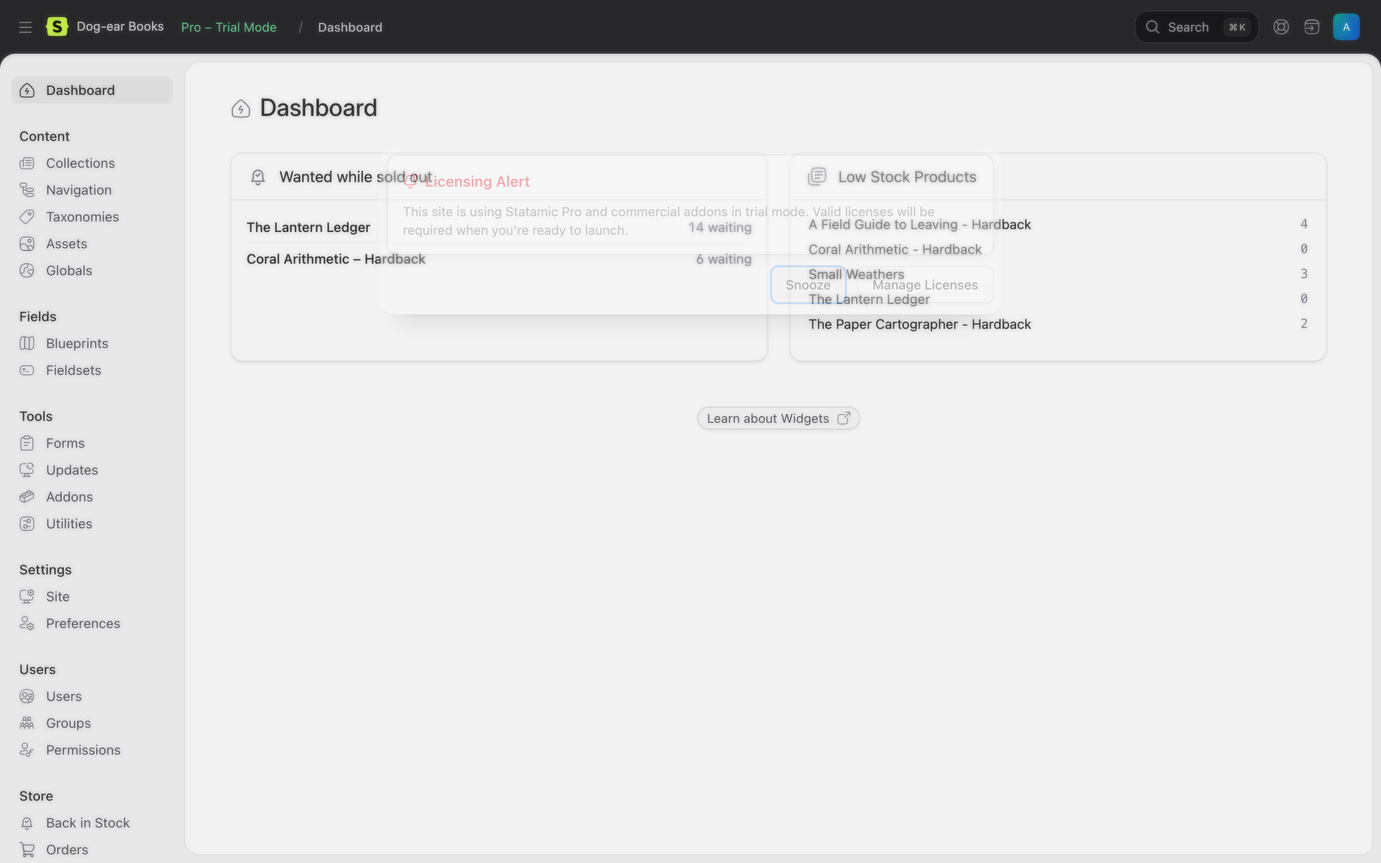
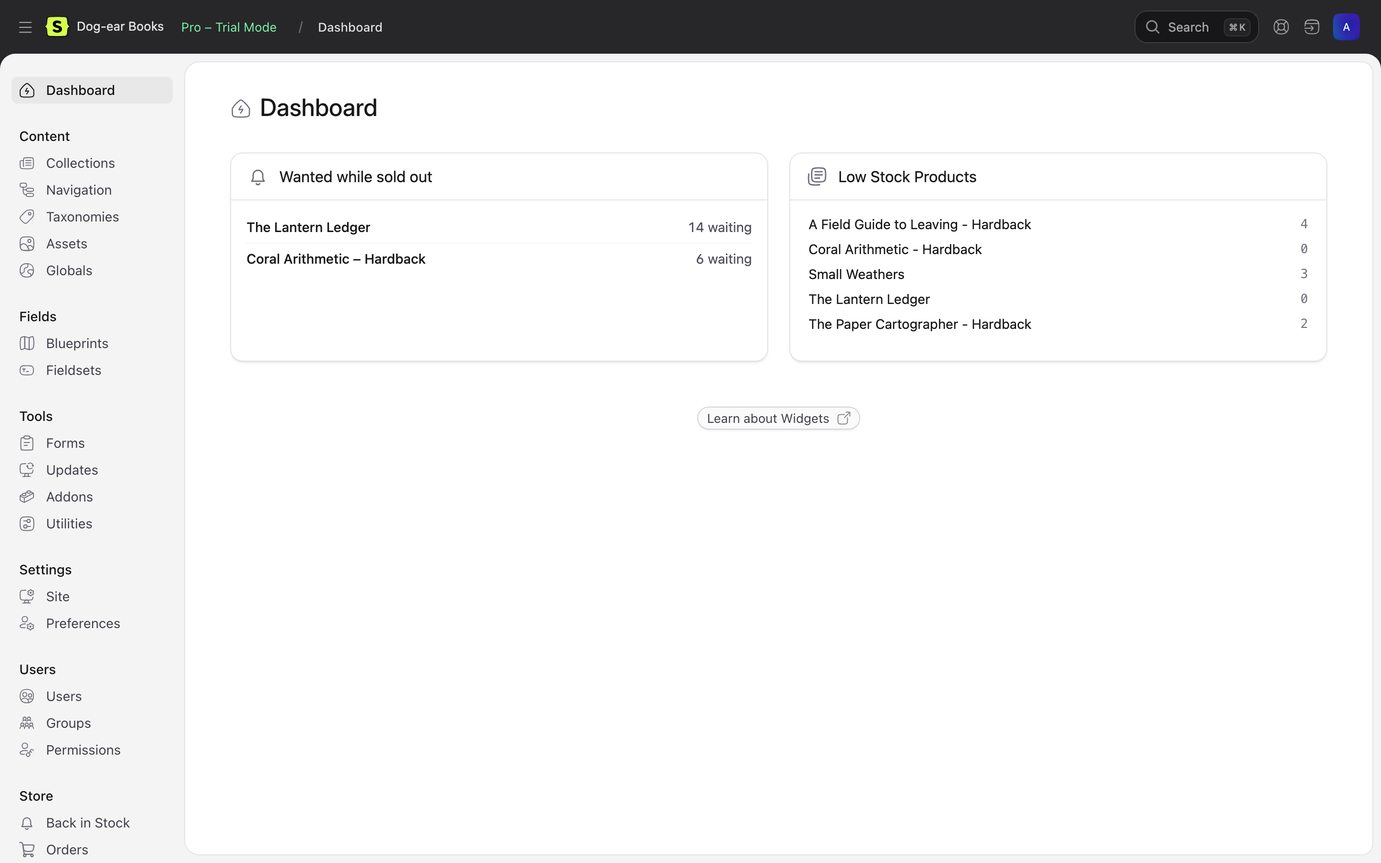
Marketplace images: cover, six screens, everything
- docs/marketplace/: cover-1600x900, 01-form, 02-confirmed, 03-one-email,
  04-demand, 05-whos-waiting, 06-everything (each with -2x), addon-icon
  (svg, png, 2x) and the new description.md
- resources/brand/: mark-colour.svg, mark-reversed.svg, nav-icon.svg (the
  bell without the tick), used for the Control Panel nav and pages
- README shows the cover; docs/marketplace is left out of Composer installs
- Docs screenshots retaken with the new icon, and the dashboard without
  Statamic's licensing alert

diff --git a/resources/dist/build/assets/cp-B0xCHKHi.js b/resources/dist/build/assets/cp-B0xCHKHi.js
@@ -1,0 +1,1 @@
+var{Form:e,Head:t,Link:n,router:r,toggleArchitecturalBackground:i,useArchitecturalBackground:a,useForm:o,usePage:s,usePoll:c}=__STATAMIC__.inertia,{Alert:l,AuthCard:u,Avatar:d,Badge:f,Button:p,ButtonGroup:m,Calendar:h,Card:g,CardList:_,CardListItem:v,CardPanel:y,CharacterCounter:b,Checkbox:ee,CheckboxGroup:te,CodeEditor:ne,Combobox:re,CommandPaletteItem:ie,ConfirmationModal:ae,ContentDirection:oe,useContentDirection:se,useUiDirection:ce,Context:le,ContextFooter:ue,ContextHeader:de,ContextItem:fe,ContextLabel:pe,ContextMenu:me,ContextSeparator:he,CreateForm:ge,DatePicker:_e,DateRangePicker:ve,Description:ye,DocsCallout:be,DragHandle:xe,Dropdown:Se,DropdownItem:Ce,DropdownLabel:we,DropdownMenu:Te,DropdownSeparator:Ee,DropdownFooter:De,DropdownHeader:Oe,Editable:ke,ErrorMessage:Ae,EmptyStateItem:je,EmptyStateMenu:Me,Field:Ne,Header:x,Heading:Pe,HoverCard:Fe,Icon:Ie,Input:S,InputGroup:Le,InputGroupAppend:Re,InputGroupPrepend:ze,Label:Be,Listing:Ve,ListingCustomizeColumns:He,ListingFilters:Ue,ListingHeaderCell:We,ListingPagination:Ge,ListingPresets:Ke,ListingPresetTrigger:qe,ListingRowActions:Je,ListingSearch:Ye,ListingTable:Xe,ListingTableBody:Ze,ListingTableHead:Qe,ListingToggleAll:$e,LivePreview:et,LivePreviewPopout:tt,MiddleEllipsis:nt,Modal:rt,ModalClose:it,ModalTitle:at,Pagination:ot,Panel:C,PanelFooter:st,PanelHeader:ct,Popover:lt,PublishComponents:ut,PublishContainer:dt,publishContextKey:ft,injectPublishContext:pt,PublishField:mt,PublishFields:ht,PublishFieldsProvider:gt,PublishForm:_t,PublishLocalizations:vt,PublishSections:yt,PublishTabs:bt,Radio:xt,RadioGroup:St,Select:w,Separator:Ct,Slider:wt,Skeleton:Tt,SplitterGroup:Et,SplitterPanel:Dt,SplitterResizeHandle:Ot,StatusIndicator:kt,Subheading:At,Switch:jt,TabContent:Mt,Stack:Nt,StackClose:Pt,StackHeader:Ft,StackFooter:It,StackContent:Lt,Table:T,TableCell:E,TableColumn:D,TableColumns:O,TableRow:k,TableRows:A,TabList:Rt,TabProvider:zt,Tabs:Bt,TabTrigger:Vt,Text:Ht,Textarea:Ut,TimePicker:Wt,TimezoneHoverCard:Gt,Timezones:Kt,ToggleGroup:qt,ToggleItem:Jt,Widget:Yt,registerIconSet:Xt,registerIconSetFromStrings:Zt}=__STATAMIC__.ui,{BaseTransition:Qt,BaseTransitionPropsValidators:$t,Comment:en,DeprecationTypes:tn,EffectScope:nn,ErrorCodes:rn,ErrorTypeStrings:an,Fragment:j,KeepAlive:on,ReactiveEffect:sn,Static:cn,Suspense:ln,Teleport:un,Text:dn,TrackOpTypes:fn,Transition:pn,TransitionGroup:mn,TriggerOpTypes:hn,VueElement:gn,__esModule:_n,assertNumber:vn,callWithAsyncErrorHandling:yn,callWithErrorHandling:bn,camelize:xn,capitalize:Sn,cloneVNode:Cn,compatUtils:wn,compile:Tn,computed:En,createApp:Dn,createBlock:M,createCommentVNode:N,createElementBlock:P,createElementVNode:F,createHydrationRenderer:On,createPropsRestProxy:kn,createRenderer:An,createSSRApp:jn,createSlots:Mn,createStaticVNode:Nn,createTextVNode:I,createVNode:L,customRef:Pn,defineAsyncComponent:Fn,defineComponent:In,defineCustomElement:Ln,defineEmits:Rn,defineExpose:zn,defineModel:Bn,defineOptions:Vn,defineProps:Hn,defineSSRCustomElement:Un,defineSlots:Wn,devtools:Gn,effect:Kn,effectScope:qn,getCurrentInstance:Jn,getCurrentScope:Yn,getCurrentWatcher:Xn,getTransitionRawChildren:Zn,guardReactiveProps:Qn,h:$n,handleError:er,hasInjectionContext:tr,hydrate:nr,hydrateOnIdle:rr,hydrateOnInteraction:ir,hydrateOnMediaQuery:ar,hydrateOnVisible:or,initCustomFormatter:sr,initDirectivesForSSR:cr,inject:lr,isMemoSame:ur,isProxy:dr,isReactive:fr,isReadonly:pr,isRef:mr,isRuntimeOnly:hr,isShallow:gr,isVNode:_r,markRaw:vr,mergeDefaults:yr,mergeModels:br,mergeProps:xr,nextTick:Sr,nodeOps:Cr,normalizeClass:wr,normalizeProps:Tr,normalizeStyle:Er,onActivated:Dr,onBeforeMount:Or,onBeforeUnmount:kr,onBeforeUpdate:Ar,onDeactivated:jr,onErrorCaptured:Mr,onMounted:Nr,onRenderTracked:Pr,onRenderTriggered:Fr,onScopeDispose:Ir,onServerPrefetch:Lr,onUnmounted:Rr,onUpdated:zr,onWatcherCleanup:Br,openBlock:R,patchProp:Vr,popScopeId:Hr,provide:Ur,proxyRefs:Wr,pushScopeId:Gr,queuePostFlushCb:Kr,reactive:qr,readonly:Jr,ref:Yr,registerRuntimeCompiler:Xr,render:Zr,renderList:z,renderSlot:Qr,resolveComponent:B,resolveDirective:$r,resolveDynamicComponent:ei,resolveFilter:ti,resolveTransitionHooks:ni,setBlockTracking:ri,setDevtoolsHook:ii,setTransitionHooks:ai,shallowReactive:oi,shallowReadonly:si,shallowRef:ci,ssrContextKey:li,ssrUtils:ui,stop:di,toDisplayString:V,toHandlerKey:fi,toHandlers:pi,toRaw:mi,toRef:hi,toRefs:gi,toValue:_i,transformVNodeArgs:vi,triggerRef:yi,unref:bi,useAttrs:xi,useCssModule:Si,useCssVars:Ci,useHost:wi,useId:Ti,useModel:Ei,useSSRContext:Di,useShadowRoot:Oi,useSlots:ki,useTemplateRef:Ai,useTransitionState:ji,vModelCheckbox:Mi,vModelDynamic:Ni,vModelRadio:Pi,vModelSelect:Fi,vModelText:Ii,vShow:Li,version:Ri,warn:zi,watch:Bi,watchEffect:Vi,watchPostEffect:Hi,watchSyncEffect:Ui,withAsyncContext:Wi,withCtx:H,withDefaults:Gi,withDirectives:Ki,withKeys:qi,withMemo:Ji,withModifiers:U,withScopeId:Yi}=window.Vue,W=(e,t)=>{let n=e.__vccOpts||e;for(let[e,r]of t)n[e]=r;return n},Xi={components:{Badge:f},props:{item:{type:Object,required:!0}}};function Zi(e,t,n,r,i,a){let o=B(`Badge`);return n.item.missing?(R(),M(o,{key:0,text:e.__(`Deleted`),color:`gray`,size:`sm`},null,8,[`text`])):n.item.published?n.item.sold_out?(R(),M(o,{key:2,text:e.__(`Sold out`),color:`red`,size:`sm`},null,8,[`text`])):n.item.tracked?(R(),M(o,{key:4,text:e.__(`:count in stock`,{count:n.item.stock}),color:`green`,size:`sm`},null,8,[`text`])):(R(),M(o,{key:3,text:e.__(`In stock`),color:`green`,size:`sm`},null,8,[`text`])):(R(),M(o,{key:1,text:e.__(`Not published`),color:`gray`,size:`sm`},null,8,[`text`]))}var G=W(Xi,[[`render`,Zi]]),K=`<svg xmlns="http://www.w3.org/2000/svg" fill="none" viewBox="0 0 14 14"><path d="M3.5 6A3.5 3.5 0 0 1 10.5 6V8.5L11.5 10.5H2.5L3.5 8.5Z" stroke="currentColor" stroke-width="1" stroke-linecap="round" stroke-linejoin="round"></path><path d="M5.75 12.25A1.4 1.4 0 0 0 8.25 12.25" stroke="currentColor" stroke-width="1" stroke-linecap="round" stroke-linejoin="round"></path></svg>`,q={components:{Button:p,Head:t,Header:x,Input:S,Link:n,Panel:C,Select:w,Stock:G,Table:T,TableCell:E,TableColumn:D,TableColumns:O,TableRow:k,TableRows:A},props:{search:{type:String,default:null},show:{type:String,default:`waiting`},items:{type:Array,required:!0},pagination:{type:Object,required:!0},stats:{type:Object,required:!0},canExport:{type:Boolean,default:!1},urls:{type:Object,required:!0}},data(){return{query:this.search??``,filter:this.show,email:``,timer:null}},computed:{icon:()=>K,showOptions(){return[{value:`waiting`,label:__(`People waiting`)},{value:`all`,label:__(`Everything asked about`)}]},filtered(){return!!this.search||this.show===`all`}},watch:{query(){clearTimeout(this.timer),this.timer=setTimeout(()=>this.reload(),300)},filter(){this.reload()}},methods:{params(e=1){let t={};return this.query&&(t.search=this.query),this.filter===`all`&&(t.show=`all`),e>1&&(t.page=e),t},reload(){r.get(this.urls.index,this.params(),{preserveState:!0,replace:!0})},pageUrl(e){let t=new URLSearchParams(this.params(e)).toString();return this.urls.index+(t?`?${t}`:``)},findPerson(){this.email&&r.get(this.urls.person,{email:this.email})}}},J={class:`mx-auto max-w-6xl`},Y={class:`mb-6 grid gap-4 sm:grid-cols-3`},X={class:`px-4 py-3`},Z={class:`text-sm text-gray-600 dark:text-gray-400!`},Qi={class:`mt-1 text-2xl font-semibold tabular-nums`},$i={class:`text-sm text-gray-600 dark:text-gray-400!`},ea={class:`px-4 py-3`},ta={class:`text-sm text-gray-600 dark:text-gray-400!`},na={class:`mt-1 text-2xl font-semibold tabular-nums`},ra={class:`text-sm text-gray-600 dark:text-gray-400!`},ia={class:`px-4 py-3`},aa={class:`text-sm text-gray-600 dark:text-gray-400!`},oa={class:`mt-1 text-2xl font-semibold tabular-nums`},sa={key:0,class:`ml-2 text-base font-normal text-gray-600 dark:text-gray-400!`},ca={class:`text-sm text-gray-600 dark:text-gray-400!`},la={class:`mb-3 flex flex-col gap-3 sm:flex-row`},ua={class:`grow`},da={class:`sm:w-60`},fa={key:0,class:`overflow-x-auto`},pa={key:0,class:`text-sm text-gray-600 dark:text-gray-400!`},ma={key:0,class:`mt-1 text-xs text-gray-600 dark:text-gray-400!`},ha={key:1,class:`px-6 py-10 text-center`},ga={key:0,class:`text-gray-600 dark:text-gray-400!`},_a={class:`font-medium`},va={class:`mt-1 text-sm text-gray-600 dark:text-gray-400!`},ya=[`aria-label`],ba={key:1},xa={class:`text-gray-600 dark:text-gray-400!`},Sa={key:3},Ca={for:`bis-person`,class:`text-sm text-gray-600 dark:text-gray-400!`},wa={class:`sm:w-72`};function Ta(e,t,n,r,i,a){let o=B(`Head`),s=B(`Button`),c=B(`Header`),l=B(`Panel`),u=B(`Input`),d=B(`Select`),f=B(`TableColumn`),p=B(`TableColumns`),m=B(`Link`),h=B(`TableCell`),g=B(`Stock`),_=B(`TableRow`),v=B(`TableRows`),y=B(`Table`);return R(),P(j,null,[L(o,{title:e.__(`Back in Stock`)},null,8,[`title`]),F(`div`,J,[L(c,{title:e.__(`Back in Stock`),icon:a.icon},{default:H(()=>[n.urls.settings?(R(),M(s,{key:0,href:n.urls.settings,text:e.__(`Settings`),icon:`cog`},null,8,[`href`,`text`])):N(``,!0),n.canExport?(R(),M(s,{key:1,href:n.urls.export,text:e.__(`Download CSV`),icon:`download`},null,8,[`href`,`text`])):N(``,!0)]),_:1},8,[`title`,`icon`]),F(`div`,Y,[L(l,{class:`mb-0!`},{default:H(()=>[F(`div`,X,[F(`div`,Z,V(e.__(`Waiting`)),1),F(`div`,Qi,V(n.stats.waiting),1),F(`div`,$i,V(e.__(n.stats.products===1?`for 1 product`:`for :count products`,{count:n.stats.products})),1)])]),_:1}),L(l,{class:`mb-0!`},{default:H(()=>[F(`div`,ea,[F(`div`,ta,V(e.__(`Emailed`)),1),F(`div`,na,V(n.stats.notified),1),F(`div`,ra,V(e.__(`in the last 30 days`)),1)])]),_:1}),L(l,{class:`mb-0!`},{default:H(()=>[F(`div`,ia,[F(`div`,aa,V(e.__(`Bought after the email`)),1),F(`div`,oa,[I(V(n.stats.converted),1),n.stats.rate?(R(),P(`span`,sa,V(n.stats.rate),1)):N(``,!0)]),F(`div`,ca,V(e.__(`in the last 30 days`)),1)])]),_:1})]),F(`div`,la,[F(`div`,ua,[L(u,{modelValue:i.query,"onUpdate:modelValue":t[0]||=e=>i.query=e,icon:`magnifying-glass`,placeholder:e.__(`Search by product`),clearable:``,"aria-label":e.__(`Search`)},null,8,[`modelValue`,`placeholder`,`aria-label`])]),F(`div`,da,[L(d,{modelValue:i.filter,"onUpdate:modelValue":t[1]||=e=>i.filter=e,options:a.showOptions,"option-label":`label`,"option-value":`value`,"aria-label":e.__(`Show`)},null,8,[`modelValue`,`options`,`aria-label`])])]),L(l,null,{default:H(()=>[n.items.length?(R(),P(`div`,fa,[L(y,null,{default:H(()=>[L(p,null,{default:H(()=>[L(f,null,{default:H(()=>[I(V(e.__(`Product`)),1)]),_:1}),L(f,null,{default:H(()=>[I(V(e.__(`Stock`)),1)]),_:1}),L(f,{class:`text-right`},{default:H(()=>[I(V(e.__(`Waiting`)),1)]),_:1}),L(f,{class:`text-right`},{default:H(()=>[I(V(e.__(`Unconfirmed`)),1)]),_:1}),L(f,{class:`text-right`},{default:H(()=>[I(V(e.__(`Emailed`)),1)]),_:1}),L(f,{class:`text-right`},{default:H(()=>[I(V(e.__(`Bought`)),1)]),_:1})]),_:1}),L(v,null,{default:H(()=>[(R(!0),P(j,null,z(n.items,t=>(R(),M(_,{key:t.id},{default:H(()=>[L(h,null,{default:H(()=>[L(m,{href:t.url,class:`font-medium hover:underline!`},{default:H(()=>[I(V(t.title),1)]),_:2},1032,[`href`]),t.variant?(R(),P(`div`,pa,V(t.variant),1)):N(``,!0)]),_:2},1024),L(h,null,{default:H(()=>[L(g,{item:t},null,8,[`item`]),t.pending?(R(),P(`div`,ma,V(e.__(`Emails going out`)),1)):N(``,!0)]),_:2},1024),L(h,{class:`text-right text-lg font-semibold tabular-nums`},{default:H(()=>[I(V(t.waiting),1)]),_:2},1024),L(h,{class:`text-right tabular-nums text-gray-600 dark:text-gray-400!`},{default:H(()=>[I(V(t.unconfirmed),1)]),_:2},1024),L(h,{class:`text-right tabular-nums`},{default:H(()=>[I(V(t.notified),1)]),_:2},1024),L(h,{class:`text-right tabular-nums`},{default:H(()=>[I(V(t.converted),1)]),_:2},1024)]),_:2},1024))),128))]),_:1})]),_:1})])):(R(),P(`div`,ha,[a.filtered?(R(),P(`p`,ga,V(e.__(`Nothing matches.`)),1)):(R(),P(j,{key:1},[F(`p`,_a,V(e.__(`Nobody’s waiting for anything`)),1),F(`p`,va,V(e.__(`When shoppers ask to hear about a sold-out product, it shows here with how many are waiting.`)),1)],64))]))]),_:1}),n.pagination.last_page>1?(R(),P(`nav`,{key:0,class:`mt-4 flex items-center justify-between text-sm`,"aria-label":e.__(`Pages`)},[n.pagination.page>1?(R(),M(m,{key:0,href:a.pageUrl(n.pagination.page-1),class:`hover:underline!`},{default:H(()=>[I(`← `+V(e.__(`Previous`)),1)]),_:1},8,[`href`])):(R(),P(`span`,ba)),F(`span`,xa,V(e.__(`:page of :last`,{page:n.pagination.page,last:n.pagination.last_page})),1),n.pagination.page<n.pagination.last_page?(R(),M(m,{key:2,href:a.pageUrl(n.pagination.page+1),class:`hover:underline!`},{default:H(()=>[I(V(e.__(`Next`))+` →`,1)]),_:1},8,[`href`])):(R(),P(`span`,Sa))],8,ya)):N(``,!0),F(`form`,{class:`mt-8 flex flex-col gap-2 sm:flex-row sm:items-center`,onSubmit:t[3]||=U((...e)=>a.findPerson&&a.findPerson(...e),[`prevent`])},[F(`label`,Ca,V(e.__(`Someone asking what you keep about them?`)),1),F(`div`,wa,[L(u,{id:`bis-person`,modelValue:i.email,"onUpdate:modelValue":t[2]||=e=>i.email=e,type:`email`,placeholder:e.__(`Their email address`)},null,8,[`modelValue`,`placeholder`])]),L(s,{type:`submit`,text:e.__(`Find`),size:`sm`},null,8,[`text`])],32)])],64)}var Ea=W(q,[[`render`,Ta]]),Da={unconfirmed:`amber`,waiting:`blue`,sending:`blue`,notified:`green`,converted:`emerald`,cancelled:`gray`},Oa={components:{Badge:f},props:{status:{type:String,required:!0},label:{type:String,required:!0}},computed:{colour(){return Da[this.status]??`default`}}};function ka(e,t,n,r,i,a){let o=B(`Badge`);return R(),M(o,{text:n.label,color:a.colour,size:`sm`},null,8,[`text`,`color`])}var Q=W(Oa,[[`render`,ka]]),Aa={components:{Button:p,Head:t,Header:x,Input:S,Link:n,Panel:C,Select:w,StatusBadge:Q,Stock:G,Table:T,TableCell:E,TableColumn:D,TableColumns:O,TableRow:k,TableRows:A},props:{item:{type:Object,required:!0},inStock:{type:Boolean,default:!1},search:{type:String,default:null},status:{type:String,default:null},statuses:{type:Array,required:!0},alerts:{type:Array,required:!0},pagination:{type:Object,required:!0},restocks:{type:Array,required:!0},limit:{type:String,default:`all`},canManage:{type:Boolean,default:!1},canExport:{type:Boolean,default:!1},urls:{type:Object,required:!0}},data(){return{query:this.search??``,filter:this.status??`all`,timer:null}},computed:{icon:()=>K,title(){return this.item.variant?`${this.item.title} – ${this.item.variant}`:this.item.title},statusOptions(){return[{value:`all`,label:__(`All statuses`)},...this.statuses]}},watch:{query(){clearTimeout(this.timer),this.timer=setTimeout(()=>this.reload(),300)},filter(){this.reload()}},methods:{params(e=1){let t={};return this.query&&(t.search=this.query),this.filter&&this.filter!==`all`&&(t.status=this.filter),e>1&&(t.page=e),t},reload(){r.get(this.urls.self,this.params(),{preserveState:!0,replace:!0})},pageUrl(e){let t=new URLSearchParams(this.params(e)).toString();return this.urls.self+(t?`?${t}`:``)},sendNow(){confirm(__(`Email all :count people waiting now?`,{count:this.item.waiting}))&&r.post(this.urls.send,{},{preserveScroll:!0})},cancel(e){confirm(__(`Cancel :email’s request? They won’t be emailed.`,{email:e.email}))&&r.post(e.cancel_url,{},{preserveScroll:!0})},remove(e){confirm(__(`Delete :email’s request? This can’t be undone.`,{email:e.email}))&&r.delete(e.delete_url,{preserveScroll:!0})},personUrl(e){return`${this.urls.person}?email=${encodeURIComponent(e.email)}`}}},ja={class:`mx-auto max-w-6xl`},Ma={class:`mb-2 text-sm`},Na={class:`mb-6 grid gap-4 sm:grid-cols-4`},Pa={class:`px-4 py-3`},Fa={class:`text-sm text-gray-600 dark:text-gray-400!`},Ia={class:`mt-2`},La={key:0,class:`mt-1 text-xs text-gray-600 dark:text-gray-400!`},Ra={class:`px-4 py-3`},za={class:`text-sm text-gray-600 dark:text-gray-400!`},Ba={class:`mt-1 text-2xl font-semibold tabular-nums`},Va={class:`text-sm text-gray-600 dark:text-gray-400!`},Ha={class:`px-4 py-3`},Ua={class:`text-sm text-gray-600 dark:text-gray-400!`},Wa={class:`mt-1 text-2xl font-semibold tabular-nums`},Ga={class:`px-4 py-3`},Ka={class:`text-sm text-gray-600 dark:text-gray-400!`},qa={class:`mt-1 text-2xl font-semibold tabular-nums`},Ja={key:0,class:`mb-4 text-sm text-gray-600 dark:text-gray-400!`},Ya={class:`mb-3 flex flex-col gap-3 sm:flex-row`},Xa={class:`grow`},Za={class:`sm:w-56`},Qa={key:0,class:`overflow-x-auto`},$a={class:`sr-only`},eo={key:0,class:`text-xs text-gray-600 dark:text-gray-400!`},to={key:1,class:`px-6 py-10 text-center text-gray-600 dark:text-gray-400!`},no=[`aria-label`],ro={key:1},io={class:`text-gray-600 dark:text-gray-400!`},ao={key:3},oo={key:0,class:`overflow-x-auto`},so={key:1,class:`px-6 py-6 text-sm text-gray-600 dark:text-gray-400!`};function co(e,t,n,r,i,a){let o=B(`Head`),s=B(`Link`),c=B(`Button`),l=B(`Header`),u=B(`Stock`),d=B(`Panel`),f=B(`Input`),p=B(`Select`),m=B(`TableColumn`),h=B(`TableColumns`),g=B(`TableCell`),_=B(`StatusBadge`),v=B(`TableRow`),y=B(`TableRows`),b=B(`Table`);return R(),P(j,null,[L(o,{title:a.title},null,8,[`title`]),F(`div`,ja,[F(`div`,Ma,[L(s,{href:n.urls.index,class:`text-gray-600 hover:underline! dark:text-gray-400!`},{default:H(()=>[I(`← `+V(e.__(`Back in Stock`)),1)]),_:1},8,[`href`])]),L(l,{title:a.title,icon:a.icon},{default:H(()=>[n.item.live_url?(R(),M(c,{key:0,href:n.item.live_url,target:`_blank`,text:e.__(`View`),icon:`external-link`},null,8,[`href`,`text`])):N(``,!0),n.item.edit_url?(R(),M(c,{key:1,href:n.item.edit_url,text:e.__(`Edit product`),icon:`pencil`},null,8,[`href`,`text`])):N(``,!0),n.canExport?(R(),M(c,{key:2,href:n.urls.export,text:e.__(`Download CSV`),icon:`download`},null,8,[`href`,`text`])):N(``,!0),n.canManage&&n.inStock&&n.item.waiting?(R(),M(c,{key:3,variant:`primary`,text:e.__(`Email them now`),icon:`mail`,onClick:a.sendNow},null,8,[`text`,`onClick`])):N(``,!0)]),_:1},8,[`title`,`icon`]),F(`div`,Na,[L(d,{class:`mb-0!`},{default:H(()=>[F(`div`,Pa,[F(`div`,Fa,V(e.__(`Stock`)),1),F(`div`,Ia,[L(u,{item:n.item},null,8,[`item`])]),n.item.pending?(R(),P(`div`,La,V(e.__(`Emails going out`)),1)):N(``,!0)])]),_:1}),L(d,{class:`mb-0!`},{default:H(()=>[F(`div`,Ra,[F(`div`,za,V(e.__(`Waiting`)),1),F(`div`,Ba,V(n.item.waiting),1),F(`div`,Va,V(e.__(`:count unconfirmed`,{count:n.item.unconfirmed})),1)])]),_:1}),L(d,{class:`mb-0!`},{default:H(()=>[F(`div`,Ha,[F(`div`,Ua,V(e.__(`Emailed`)),1),F(`div`,Wa,V(n.item.notified),1)])]),_:1}),L(d,{class:`mb-0!`},{default:H(()=>[F(`div`,Ga,[F(`div`,Ka,V(e.__(`Bought after the email`)),1),F(`div`,qa,V(n.item.converted),1)])]),_:1})]),n.limit===`stock`?(R(),P(`p`,Ja,V(e.__(`When stock comes back, as many people are emailed as units came back, oldest request first. “Email them now” emails everyone waiting.`)),1)):N(``,!0),F(`div`,Ya,[F(`div`,Xa,[L(f,{modelValue:i.query,"onUpdate:modelValue":t[0]||=e=>i.query=e,icon:`magnifying-glass`,placeholder:e.__(`Search by email`),clearable:``,"aria-label":e.__(`Search`)},null,8,[`modelValue`,`placeholder`,`aria-label`])]),F(`div`,Za,[L(p,{modelValue:i.filter,"onUpdate:modelValue":t[1]||=e=>i.filter=e,options:a.statusOptions,"option-label":`label`,"option-value":`value`,"aria-label":e.__(`Status`)},null,8,[`modelValue`,`options`,`aria-label`])])]),L(d,{class:`mb-6`},{default:H(()=>[n.alerts.length?(R(),P(`div`,Qa,[L(b,null,{default:H(()=>[L(h,null,{default:H(()=>[L(m,null,{default:H(()=>[I(V(e.__(`Email`)),1)]),_:1}),L(m,null,{default:H(()=>[I(V(e.__(`Status`)),1)]),_:1}),L(m,null,{default:H(()=>[I(V(e.__(`Asked`)),1)]),_:1}),L(m,null,{default:H(()=>[I(V(e.__(`Emailed`)),1)]),_:1}),n.canManage?(R(),M(m,{key:0,class:`text-right`},{default:H(()=>[F(`span`,$a,V(e.__(`Actions`)),1)]),_:1})):N(``,!0)]),_:1}),L(y,null,{default:H(()=>[(R(!0),P(j,null,z(n.alerts,t=>(R(),M(v,{key:t.id},{default:H(()=>[L(g,null,{default:H(()=>[L(s,{href:a.personUrl(t),class:`hover:underline!`},{default:H(()=>[I(V(t.email),1)]),_:2},1032,[`href`]),t.site==="default"?N(``,!0):(R(),P(`div`,eo,V(t.site),1))]),_:2},1024),L(g,null,{default:H(()=>[L(_,{status:t.status,label:t.status_label},null,8,[`status`,`label`])]),_:2},1024),L(g,{class:`whitespace-nowrap text-gray-600 dark:text-gray-400!`,title:t.asked},{default:H(()=>[I(V(t.asked_ago),1)]),_:2},1032,[`title`]),L(g,{class:`whitespace-nowrap text-gray-600 dark:text-gray-400!`},{default:H(()=>[I(V(t.notified??`—`),1)]),_:2},1024),n.canManage?(R(),M(g,{key:0,class:`text-right whitespace-nowrap`},{default:H(()=>[t.open?(R(),M(c,{key:0,size:`sm`,variant:`ghost`,text:e.__(`Cancel`),onClick:e=>a.cancel(t)},null,8,[`text`,`onClick`])):N(``,!0),L(c,{size:`sm`,variant:`ghost`,icon:`trash`,"aria-label":e.__(`Delete`),onClick:e=>a.remove(t)},null,8,[`aria-label`,`onClick`])]),_:2},1024)):N(``,!0)]),_:2},1024))),128))]),_:1})]),_:1})])):(R(),P(`p`,to,V(e.__(`No requests match.`)),1))]),_:1}),n.pagination.last_page>1?(R(),P(`nav`,{key:1,class:`mb-6 flex items-center justify-between text-sm`,"aria-label":e.__(`Pages`)},[n.pagination.page>1?(R(),M(s,{key:0,href:a.pageUrl(n.pagination.page-1),class:`hover:underline!`},{default:H(()=>[I(`← `+V(e.__(`Previous`)),1)]),_:1},8,[`href`])):(R(),P(`span`,ro)),F(`span`,io,V(e.__(`:page of :last`,{page:n.pagination.page,last:n.pagination.last_page})),1),n.pagination.page<n.pagination.last_page?(R(),M(s,{key:2,href:a.pageUrl(n.pagination.page+1),class:`hover:underline!`},{default:H(()=>[I(V(e.__(`Next`))+` →`,1)]),_:1},8,[`href`])):(R(),P(`span`,ao))],8,no)):N(``,!0),L(d,{heading:e.__(`Restocks`)},{default:H(()=>[n.restocks.length?(R(),P(`div`,oo,[L(b,null,{default:H(()=>[L(h,null,{default:H(()=>[L(m,null,{default:H(()=>[I(V(e.__(`When`)),1)]),_:1}),L(m,{class:`text-right`},{default:H(()=>[I(V(e.__(`Stock before`)),1)]),_:1}),L(m,{class:`text-right`},{default:H(()=>[I(V(e.__(`Stock after`)),1)]),_:1}),L(m,{class:`text-right`},{default:H(()=>[I(V(e.__(`Emailed`)),1)]),_:1}),L(m,null,{default:H(()=>[I(V(e.__(`Noticed`)),1)]),_:1})]),_:1}),L(y,null,{default:H(()=>[(R(!0),P(j,null,z(n.restocks,t=>(R(),M(v,{key:t.id},{default:H(()=>[L(g,{class:`whitespace-nowrap`,title:t.at},{default:H(()=>[I(V(t.ago),1)]),_:2},1032,[`title`]),L(g,{class:`text-right tabular-nums`},{default:H(()=>[I(V(t.before??`—`),1)]),_:2},1024),L(g,{class:`text-right tabular-nums`},{default:H(()=>[I(V(t.after??e.__(`Not counted`)),1)]),_:2},1024),L(g,{class:`text-right tabular-nums`},{default:H(()=>[I(V(t.sent),1)]),_:2},1024),L(g,{class:`text-gray-600 dark:text-gray-400!`},{default:H(()=>[I(V(t.trigger===`save`?e.__(`When saved`):e.__(`By the scheduled check`)),1)]),_:2},1024)]),_:2},1024))),128))]),_:1})]),_:1})])):(R(),P(`p`,so,V(e.__(`It hasn’t come back in stock since anyone asked.`)),1))]),_:1},8,[`heading`])])],64)}var lo=W(Aa,[[`render`,co]]),uo={components:{Button:p,Head:t,Header:x,Input:S,Link:n,Panel:C,StatusBadge:Q,Table:T,TableCell:E,TableColumn:D,TableColumns:O,TableRow:k,TableRows:A},props:{email:{type:String,default:null},alerts:{type:Array,required:!0},canManage:{type:Boolean,default:!1},canExport:{type:Boolean,default:!1},urls:{type:Object,required:!0}},data(){return{query:this.email??``}},computed:{icon:()=>K},methods:{find(){r.get(this.urls.self,this.query?{email:this.query}:{})},forget(){confirm(__(`Delete everything kept about :email? This can’t be undone.`,{email:this.email}))&&r.post(this.urls.forget,{email:this.email})}}},fo={class:`mx-auto max-w-5xl`},po={class:`mb-2 text-sm`},mo={class:`grow`},ho={key:0,class:`overflow-x-auto`},$={key:1,class:`px-6 py-10 text-center text-gray-600 dark:text-gray-400!`},go={class:`mt-4 text-sm text-gray-600 dark:text-gray-400!`};function _o(e,t,n,r,i,a){let o=B(`Head`),s=B(`Link`),c=B(`Button`),l=B(`Header`),u=B(`Input`),d=B(`TableColumn`),f=B(`TableColumns`),p=B(`TableCell`),m=B(`StatusBadge`),h=B(`TableRow`),g=B(`TableRows`),_=B(`Table`),v=B(`Panel`);return R(),P(j,null,[L(o,{title:e.__(`Find someone`)},null,8,[`title`]),F(`div`,fo,[F(`div`,po,[L(s,{href:n.urls.index,class:`text-gray-600 hover:underline! dark:text-gray-400!`},{default:H(()=>[I(`← `+V(e.__(`Back in Stock`)),1)]),_:1},8,[`href`])]),L(l,{title:n.email??e.__(`Find someone`),icon:a.icon},{default:H(()=>[n.email&&n.alerts.length&&n.canExport?(R(),M(c,{key:0,href:n.urls.download,text:e.__(`Download their data`),icon:`download`},null,8,[`href`,`text`])):N(``,!0),n.email&&n.alerts.length&&n.canManage?(R(),M(c,{key:1,variant:`danger`,text:e.__(`Delete everything`),onClick:a.forget},null,8,[`text`,`onClick`])):N(``,!0)]),_:1},8,[`title`,`icon`]),F(`form`,{class:`mb-6 flex flex-col gap-2 sm:flex-row`,onSubmit:t[1]||=U((...e)=>a.find&&a.find(...e),[`prevent`])},[F(`div`,mo,[L(u,{modelValue:i.query,"onUpdate:modelValue":t[0]||=e=>i.query=e,type:`email`,icon:`magnifying-glass`,placeholder:e.__(`Email address`),"aria-label":e.__(`Email address`)},null,8,[`modelValue`,`placeholder`,`aria-label`])]),L(c,{type:`submit`,text:e.__(`Find`)},null,8,[`text`])],32),n.email?(R(),M(v,{key:0},{default:H(()=>[n.alerts.length?(R(),P(`div`,ho,[L(_,null,{default:H(()=>[L(f,null,{default:H(()=>[L(d,null,{default:H(()=>[I(V(e.__(`Product`)),1)]),_:1}),L(d,null,{default:H(()=>[I(V(e.__(`Status`)),1)]),_:1}),L(d,null,{default:H(()=>[I(V(e.__(`Asked`)),1)]),_:1}),L(d,null,{default:H(()=>[I(V(e.__(`Confirmed`)),1)]),_:1}),L(d,null,{default:H(()=>[I(V(e.__(`Emailed`)),1)]),_:1})]),_:1}),L(g,null,{default:H(()=>[(R(!0),P(j,null,z(n.alerts,e=>(R(),M(h,{key:e.id},{default:H(()=>[L(p,null,{default:H(()=>[L(s,{href:e.item_url,class:`hover:underline!`},{default:H(()=>[I(V(e.product),1)]),_:2},1032,[`href`])]),_:2},1024),L(p,null,{default:H(()=>[L(m,{status:e.status,label:e.status_label},null,8,[`status`,`label`])]),_:2},1024),L(p,{class:`whitespace-nowrap text-gray-600 dark:text-gray-400!`},{default:H(()=>[I(V(e.asked),1)]),_:2},1024),L(p,{class:`whitespace-nowrap text-gray-600 dark:text-gray-400!`},{default:H(()=>[I(V(e.confirmed??`—`),1)]),_:2},1024),L(p,{class:`whitespace-nowrap text-gray-600 dark:text-gray-400!`},{default:H(()=>[I(V(e.notified??`—`),1)]),_:2},1024)]),_:2},1024))),128))]),_:1})]),_:1})])):(R(),P(`p`,$,V(e.__(`Nothing is kept about that address.`)),1))]),_:1})):N(``,!0),F(`p`,go,V(e.__(`Only requests are kept: the address, what was asked about, when, and the consent wording agreed to. Addresses that unsubscribe are kept as a one-way hash, so they aren’t emailed again.`)),1)])],64)}var vo=W(uo,[[`render`,_o]]),yo={components:{Widget:Yt},props:{title:{type:String,required:!0},rows:{type:Array,required:!0},url:{type:String,required:!0}},computed:{icon:()=>K}},bo={class:`px-4 py-3 text-sm`},xo={key:0,class:`text-gray-500`},So={key:1,class:`divide-y divide-gray-100 dark:divide-gray-800!`},Co=[`href`],wo={class:`shrink-0 tabular-nums text-gray-600 dark:text-gray-400!`};function To(e,t,n,r,i,a){let o=B(`Widget`);return R(),M(o,{title:n.title,icon:a.icon,href:n.url},{default:H(()=>[F(`div`,bo,[n.rows.length?(R(),P(`ul`,So,[(R(!0),P(j,null,z(n.rows,t=>(R(),P(`li`,{key:t.id,class:`flex items-baseline justify-between gap-3 py-1.5`},[F(`a`,{href:t.url,class:`min-w-0 truncate font-medium hover:underline!`},V(t.name),9,Co),F(`span`,wo,V(e.__(t.waiting===1?`1 waiting`:`:count waiting`,{count:t.waiting})),1)]))),128))])):(R(),P(`p`,xo,V(e.__(`Nobody’s waiting for anything sold out.`)),1))])]),_:1},8,[`title`,`icon`,`href`])}var Eo=W(yo,[[`render`,To]]);Statamic.booting(()=>{Statamic.$inertia.register(`back-in-stock::Index`,Ea),Statamic.$inertia.register(`back-in-stock::Show`,lo),Statamic.$inertia.register(`back-in-stock::Person`,vo),Statamic.$components.register(`back-in-stock-widget`,Eo)});

diff --git a/resources/js/pages/Show.vue b/resources/js/pages/Show.vue
@@ -7,7 +7,7 @@ import { Head, Link, router } from '@statamic/cms/inertia';
 import { Button, Header, Input, Panel, Select, Table, TableCell, TableColumn, TableColumns, TableRow, TableRows } from '@statamic/cms/ui';
 import StatusBadge from '../components/StatusBadge.vue';
 import Stock from '../components/Stock.vue';
-import icon from '../../brand/nav-icon.svg?raw';
+import icon from '../icon.js';
 
 export default {
     components: { Button, Head, Header, Input, Link, Panel, Select, StatusBadge, Stock, Table, TableCell, TableColumn, TableColumns, TableRow, TableRows },

diff --git a/resources/js/icon.js b/resources/js/icon.js
@@ -1,0 +1,3 @@
+// The Control Panel icon: resources/brand/nav-icon.svg's drawing, without
+// the file's metadata (which would otherwise be bundled into the CP's script).
+export default '<svg xmlns="http://www.w3.org/2000/svg" fill="none" viewBox="0 0 14 14"><path d="M3.5 6A3.5 3.5 0 0 1 10.5 6V8.5L11.5 10.5H2.5L3.5 8.5Z" stroke="currentColor" stroke-width="1" stroke-linecap="round" stroke-linejoin="round"></path><path d="M5.75 12.25A1.4 1.4 0 0 0 8.25 12.25" stroke="currentColor" stroke-width="1" stroke-linecap="round" stroke-linejoin="round"></path></svg>';

diff --git a/resources/js/pages/Person.vue b/resources/js/pages/Person.vue
@@ -6,7 +6,7 @@
 import { Head, Link, router } from '@statamic/cms/inertia';
 import { Button, Header, Input, Panel, Table, TableCell, TableColumn, TableColumns, TableRow, TableRows } from '@statamic/cms/ui';
 import StatusBadge from '../components/StatusBadge.vue';
-import icon from '../../brand/nav-icon.svg?raw';
+import icon from '../icon.js';
 
 export default {
     components: { Button, Head, Header, Input, Link, Panel, StatusBadge, Table, TableCell, TableColumn, TableColumns, TableRow, TableRows },

diff --git a/resources/js/pages/Index.vue b/resources/js/pages/Index.vue
@@ -6,7 +6,7 @@
 import { Head, Link, router } from '@statamic/cms/inertia';
 import { Button, Header, Input, Panel, Select, Table, TableCell, TableColumn, TableColumns, TableRow, TableRows } from '@statamic/cms/ui';
 import Stock from '../components/Stock.vue';
-import icon from '../../brand/nav-icon.svg?raw';
+import icon from '../icon.js';
 
 export default {
     components: { Button, Head, Header, Input, Link, Panel, Select, Stock, Table, TableCell, TableColumn, TableColumns, TableRow, TableRows },

diff --git a/resources/js/widgets/BackInStockWidget.vue b/resources/js/widgets/BackInStockWidget.vue
@@ -4,7 +4,7 @@
 -->
 <script>
 import { Widget } from '@statamic/cms/ui';
-import icon from '../../brand/nav-icon.svg?raw';
+import icon from '../icon.js';
 
 export default {
     components: { Widget },

diff --git a/src/ServiceProvider.php b/src/ServiceProvider.php
@@ -25,7 +25,7 @@ use Statamic\Statamic;
 class ServiceProvider extends AddonServiceProvider
 {
     /** The Control Panel nav icon (resources/brand/nav-icon.svg). */
-    public const ICON = '<svg xmlns="http://www.w3.org/2000/svg" fill="none" viewBox="0 0 14 14"><path d="M3.5 6A3.5 3.5 0 0 1 10.5 6V8.5L11.5 10.5H2.5L3.5 8.5Z" stroke="currentColor" stroke-width="1" stroke-linecap="round" stroke-linejoin="round"></path><path d="M5.75 12.25A1.4 1.4 0 0 0 8.25 12.25" stroke="currentColor" stroke-width="1" stroke-linecap="round" stroke-linejoin="round"></path><path d="M5.6 5.9L6.6 6.9L8.4 5" stroke="currentColor" stroke-width="1" stroke-linecap="round" stroke-linejoin="round"></path></svg>';
+    public const ICON = '<svg xmlns="http://www.w3.org/2000/svg" fill="none" viewBox="0 0 14 14"><path d="M3.5 6A3.5 3.5 0 0 1 10.5 6V8.5L11.5 10.5H2.5L3.5 8.5Z" stroke="currentColor" stroke-width="1" stroke-linecap="round" stroke-linejoin="round"></path><path d="M5.75 12.25A1.4 1.4 0 0 0 8.25 12.25" stroke="currentColor" stroke-width="1" stroke-linecap="round" stroke-linejoin="round"></path></svg>';
 
     protected $tags = [
         BackInStockTags::class,

diff --git a/docs/marketplace/description.md b/docs/marketplace/description.md
@@ -1,22 +1,48 @@
-# Back in Stock
+**"Tell me when it's back" for Cargo. Shoppers leave their email on a sold-out product, or a sold-out variant, and confirm it. When it's back in stock, they get one email. You see what people are waiting for, and who bought when it came back.**
 
-**"Tell me when it's back" for Cargo.** Shoppers leave their email on a sold-out product, or a sold-out variant, and get one email when it's back in stock. You see what people are waiting for, and who bought when it came back.
+## A form for sold-out products and variants
 
-## What it does
+One tag, your markup. It shows only while it's sold out, works without JavaScript and on statically cached pages, and can follow the size, colour or edition chosen on the page.
 
-- **A form for sold-out products and variants.** One tag, your markup. It shows only while it's sold out, works without JavaScript and on statically cached pages, and follows the size, colour or edition chosen on the page.
-- **Confirmed by email.** Every request is confirmed with a button, so nobody can sign someone else up, and link checkers can't confirm for them. A consent tick box keeps the wording people agreed to.
-- **Restocks noticed however they happen.** Stock changed in the Control Panel, put back by a cancelled order, or changed by an import: Back in Stock notices and emails people, oldest request first.
-- **Never twice, never too many.** Each request is emailed once. Email everyone, or as many people as units came back. A delay lets you fix a mistyped stock level, and a per-minute limit keeps your mail provider happy.
-- **One-click unsubscribe**, as Gmail and Yahoo ask for.
-- **Demand in the Control Panel.** The most wanted sold-out products, who's waiting, each restock, and how many bought after the email. A dashboard widget and CSV download.
-- **Privacy built in.** Find, download or delete everything about an address. Old requests are deleted on a schedule.
-- **Multisite.** Emails go in the language of the site people asked on.
-- **Spam protection.** A honeypot, rate limits per visitor and per address.
-- **Yours to change.** Wording, logo and colours in the Control Panel; publish the email views to change anything else. Events for syncing to your mailing list.
+## Confirmed by email
 
-Antlers and Blade examples for everything, and a demo shop to copy from.
+Every request is confirmed with a button on the linked page, so nobody can sign someone else up, and mail apps' link checkers can't confirm for them. A consent tick box records the wording people agreed to.
+
+## Restocks noticed however they happen
+
+Stock changed in the Control Panel, put back by a cancelled order, written by an import: Back in Stock notices, and emails people, oldest request first.
+
+## Never twice, never too many
+
+Each request is emailed once. Email everyone, or as many people as units came back. A short wait lets you fix a mistyped stock level, and a per-minute limit keeps your mail provider happy.
+
+## One-click unsubscribe
+
+In the email, and in the headers mail apps use.
+
+## Demand in the Control Panel
+
+**Store → Back in Stock**: the most wanted sold-out products, who's waiting, each restock, and how many bought after the email. A dashboard widget and CSV download.
+
+## Privacy
+
+Find, download or delete everything about an address. Old requests are deleted on a schedule. No IP addresses kept.
+
+## Multisite
+
+Emails go in the language of the site people asked on, with the right product link.
+
+## Spam protection
+
+A honeypot field, and limits per visitor and per address.
+
+## Yours to change
+
+Wording, logo and colours in the Control Panel. Publish the emails to change anything else. Events, a PHP API and a JSON API.
 
 ## Requirements
 
-Statamic 6.35.1+, Cargo 1.15+, PHP 8.3+, a database, and Laravel's scheduler.
+- Statamic 6.35.1 or later
+- **Cargo 1.15 or later**
+- PHP 8.3 or later, and a database (SQLite is fine)
+- Laravel's scheduler running. A queue is recommended.

diff --git a/README.md b/README.md
@@ -2,6 +2,8 @@
 
 "Tell me when it's back" for [Cargo](https://builtwithcargo.dev). Shoppers leave their email on a sold-out product, or a sold-out variant, and confirm it. When it's back in stock, they get one email. You see what people are waiting for, and who bought when it came back.
 
+![Back in Stock for Statamic and Cargo](docs/marketplace/cover-1600x900.png)
+
 ## Features
 
 - **A form for sold-out products and variants.** One tag, your markup. It shows only while it's sold out, works without JavaScript and on statically cached pages, and can follow the size, colour or edition chosen on the page.
